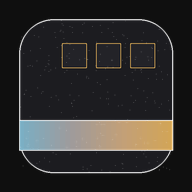
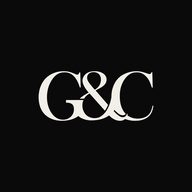
Add files via upload

diff --git a/index.html b/index.html
@@ -31,6 +31,7 @@ html,body{height:100%;height:100dvh;overflow:hidden;background:var(--bg);color:v
 .logo{font-family:'DM Serif Display',Georgia,serif;font-style:italic;
   font-size:clamp(34px,9vw,50px);color:var(--ink);letter-spacing:-.02em;line-height:1}
 .logo-amp{font-style:normal;color:var(--ink2)}
+.logo-img{width:clamp(180px,50vw,260px);height:auto;display:block}
 .logo-sub{font-size:11px;color:var(--ink2);letter-spacing:.14em;text-transform:uppercase;
   margin-top:6px;margin-bottom:44px}
 .up-card{position:relative;width:100%;max-width:320px;background:var(--sf);
@@ -62,6 +63,7 @@ html,body{height:100%;height:100dvh;overflow:hidden;background:var(--bg);color:v
   display:flex;align-items:center;padding:0 16px;gap:10px}
 .nav-logo{font-family:'DM Serif Display',Georgia,serif;font-style:italic;font-size:19px;color:var(--ink);white-space:nowrap}
 .nav-logo-amp{font-style:normal;color:var(--ink3)}
+.nav-logo-img{height:26px;width:auto;display:block;flex-shrink:0}
 .nav-file{font-size:10px;color:var(--ink3);overflow:hidden;text-overflow:ellipsis;
   white-space:nowrap;flex:1;text-align:center}
 .nav-new{position:relative;font-family:'Inter',sans-serif;font-size:10px;font-weight:500;
@@ -319,7 +321,7 @@ html,body{height:100%;height:100dvh;overflow:hidden;background:var(--bg);color:v
 
 <!-- ══ UPLOAD ══ -->
 <div id="scr-up">
-  <h1 class="logo">Grade<span class="logo-amp"> & </span>Collage</h1>
+<img class="logo-img" src="gc-logo.svg" alt="Grade &amp; Collage" />
   <p class="logo-sub">Cinematic grading · Pinterest collages</p>
   <div class="up-card">
     <input type="file" id="f-main" accept="image/*,video/*" multiple>
@@ -349,7 +351,7 @@ html,body{height:100%;height:100dvh;overflow:hidden;background:var(--bg);color:v
 <div id="scr-app">
   <div class="safe-t"></div>
   <nav class="nav">
-    <span class="nav-logo">Grade<span class="nav-logo-amp"> &amp; </span>Collage</span>
+    <img class="nav-logo-img" src="gc-logo.svg" alt="Grade &amp; Collage" />
     <span class="nav-file" id="nav-file"></span>
     <label class="nav-new">New<input type="file" id="f-new" accept="image/*,video/*" multiple></label>
   </nav>